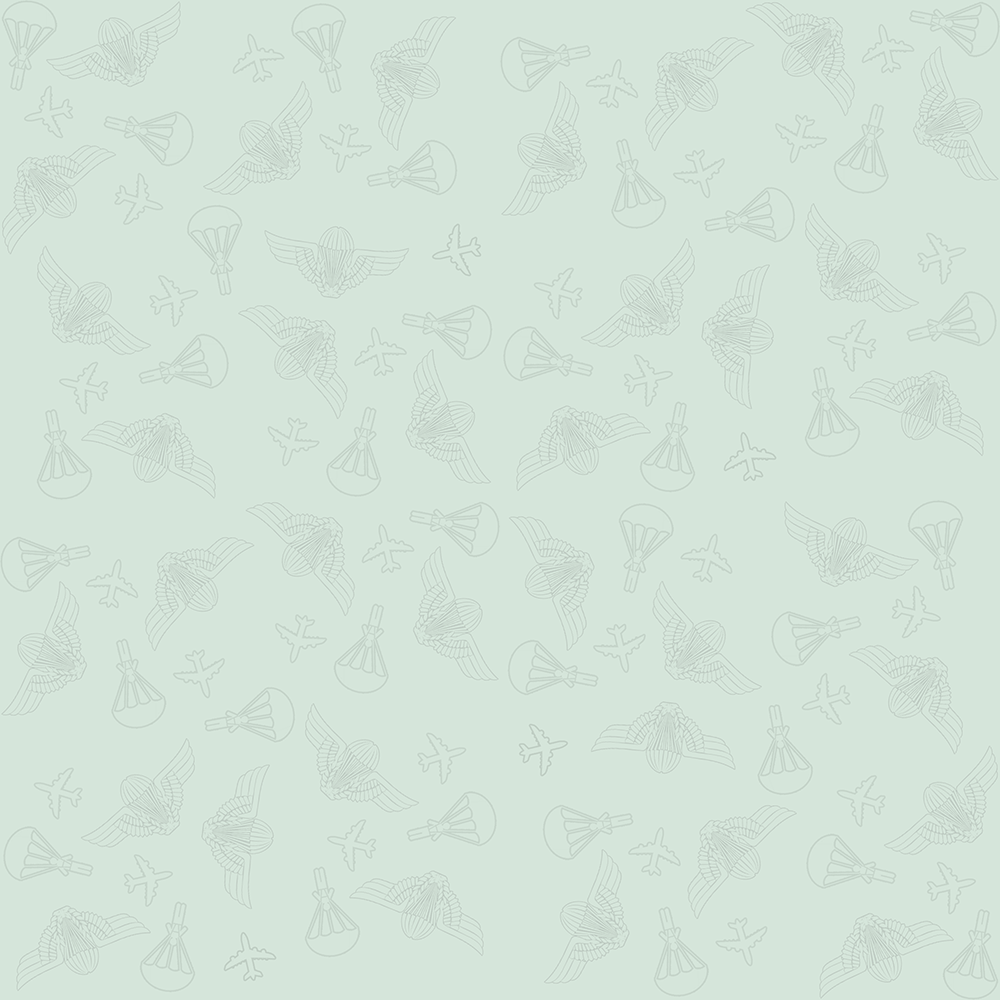
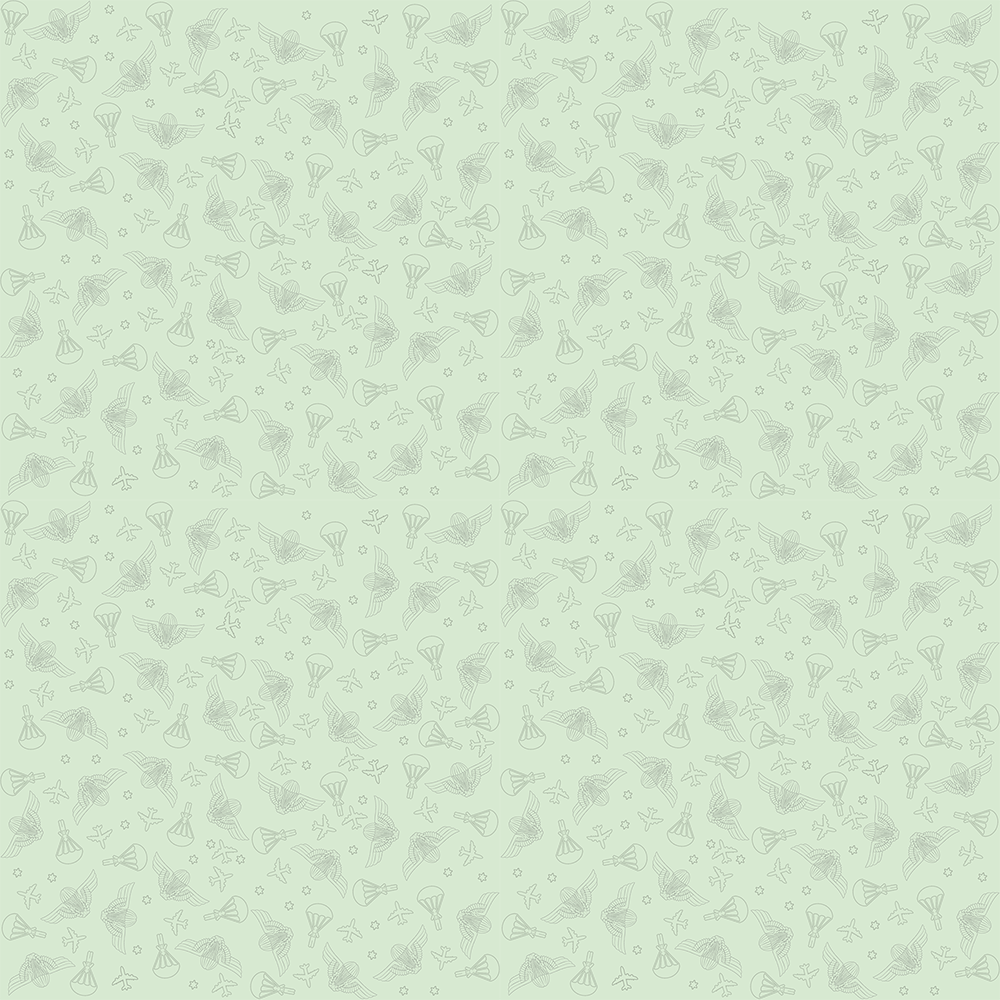
working on bg theme

Changed region(s): [[0.0, 0.0, 1.0, 1.0]]

diff --git a/public/stylesheets/main.css b/public/stylesheets/main.css
@@ -13,7 +13,7 @@ header {
 
 header a {
 	cursor: pointer;
-	background-color: #d5e5da;
+	background-color: #dbe0d9;
 	float: left;
 	color: black;
 	text-align: center;
@@ -25,13 +25,13 @@ header a {
 	line-height: 17px;
 	border-radius: 4px;
 	margin: 3px;
-	border: 1px outset #d5e5da;
+	border: 1px outset #dbe0d9;
 }
 
 header select {
 	cursor: pointer;
 	background-color: #000;
-	color: #d5e5da;
+	color: #dbe0d9;
 	max-width: 130px;
 	width: 31.1%;
 	text-align: center;
@@ -41,7 +41,7 @@ header select {
 	font-weight: 400;
 	font-size: 15px;
 	border-radius: 4px;
-	border: 2px outset #d5e5da;
+	border: 2px outset #dbe0d9;
 }
 
 header select:hover {
@@ -73,7 +73,7 @@ header a:hover {
 
 header a.active {
   background-color: #000;
-  color: #d5e5da;
+  color: #dbe0d9;
 }
 
 header a.active:hover {
@@ -87,7 +87,7 @@ header .right {
 
 body {
 	/*background-color: #f0f0f0;*/ 
-	background-image: url("/images/background/mainbg.png");
+	background-image: url("/images/background/mainbg2.png");
 }
 
 section {
@@ -121,7 +121,7 @@ section .container {
 	margin: 0.5%;
 	padding: 10px;
 	box-sizing: border-box;
-	border: 1px solid #d5e5da;
+	border: 1px solid #dbe0d9;
 	border-radius: 5px;
 }
 
@@ -132,7 +132,7 @@ section .container {
 	margin: 0.5%;
 	padding: 10px;
 	box-sizing: border-box;
-	border: 1px solid #d5e5da;
+	border: 1px solid #dbe0d9;
 	border-radius: 5px;
 }
 
@@ -143,7 +143,7 @@ section .container {
 	margin: 0.5%;
 	padding: 10px;
 	box-sizing: border-box;
-	border: 1px solid #d5e5da;
+	border: 1px solid #dbe0d9;
 	border-radius: 5px;
 }
 
@@ -163,7 +163,7 @@ table {
 }
 
 tr td {
-	border: 1px solid #d5e5da;
+	border: 1px solid #dbe0d9;
 }
 
 tr:hover {

diff --git a/public/stylesheets/elements.css b/public/stylesheets/elements.css
@@ -29,7 +29,7 @@ a {
 
 .underline {
 	margin: auto;
-	border-bottom: 1px solid #d5e5da;
+	border-bottom: 1px solid #dbe0d9;
 	width: 90%;
 	padding-bottom: 5px;
 	margin-bottom: 10px
@@ -46,7 +46,7 @@ a {
      padding:5px;
      font: inherit;
      /*border is optional*/
-     border:1px solid #d5e5da;
+     border:1px solid #dbe0d9;
      cursor: pointer;
 }
 
@@ -88,7 +88,7 @@ a {
 
 .btn-submit {
 	background-color: #000;
-	color: #d5e5da;
+	color: #dbe0d9;
 	font-size: 12px;
 	width:130px;
 	height: 30px;
@@ -97,7 +97,7 @@ a {
 	font-family: "HelveticaNeue-Light";
 	text-align: center;
 	border-radius: 5px;
-	border: 2px outset #d5e5da;
+	border: 2px outset #dbe0d9;
 }
 
 .btn-submit:hover {
@@ -201,32 +201,32 @@ a {
 	margin: 5px;
 	cursor: pointer;
 	background-color: #f0f0f0;
-	border: 1px solid #d5e5da;
+	border: 1px solid #dbe0d9;
 }
 
 .span-menu:hover {
 	background-color: #f9f9f9;
 	border-radius: 3px;
-	border: 1px solid #d5e5da;
+	border: 1px solid #dbe0d9;
 }
 
 .tbl-generic {
-	border: 1px solid #d5e5da;
+	border: 1px solid #dbe0d9;
 	font-size: 12px;
 }
 
 .tbl-generic tr td {
-	border: 1px solid #d5e5da;
+	border: 1px solid #dbe0d9;
 	padding: 5px;
 }
 
 .tbl-info {
-	border: 1px solid #d5e5da;
+	border: 1px solid #dbe0d9;
 	font-size: 12px;
 }
 
 .tbl-info tr td {
-	border: 1px solid #d5e5da;
+	border: 1px solid #dbe0d9;
 	padding-top: 5px;
 	padding-bottom: 5px;
 	padding-left: 5px;
